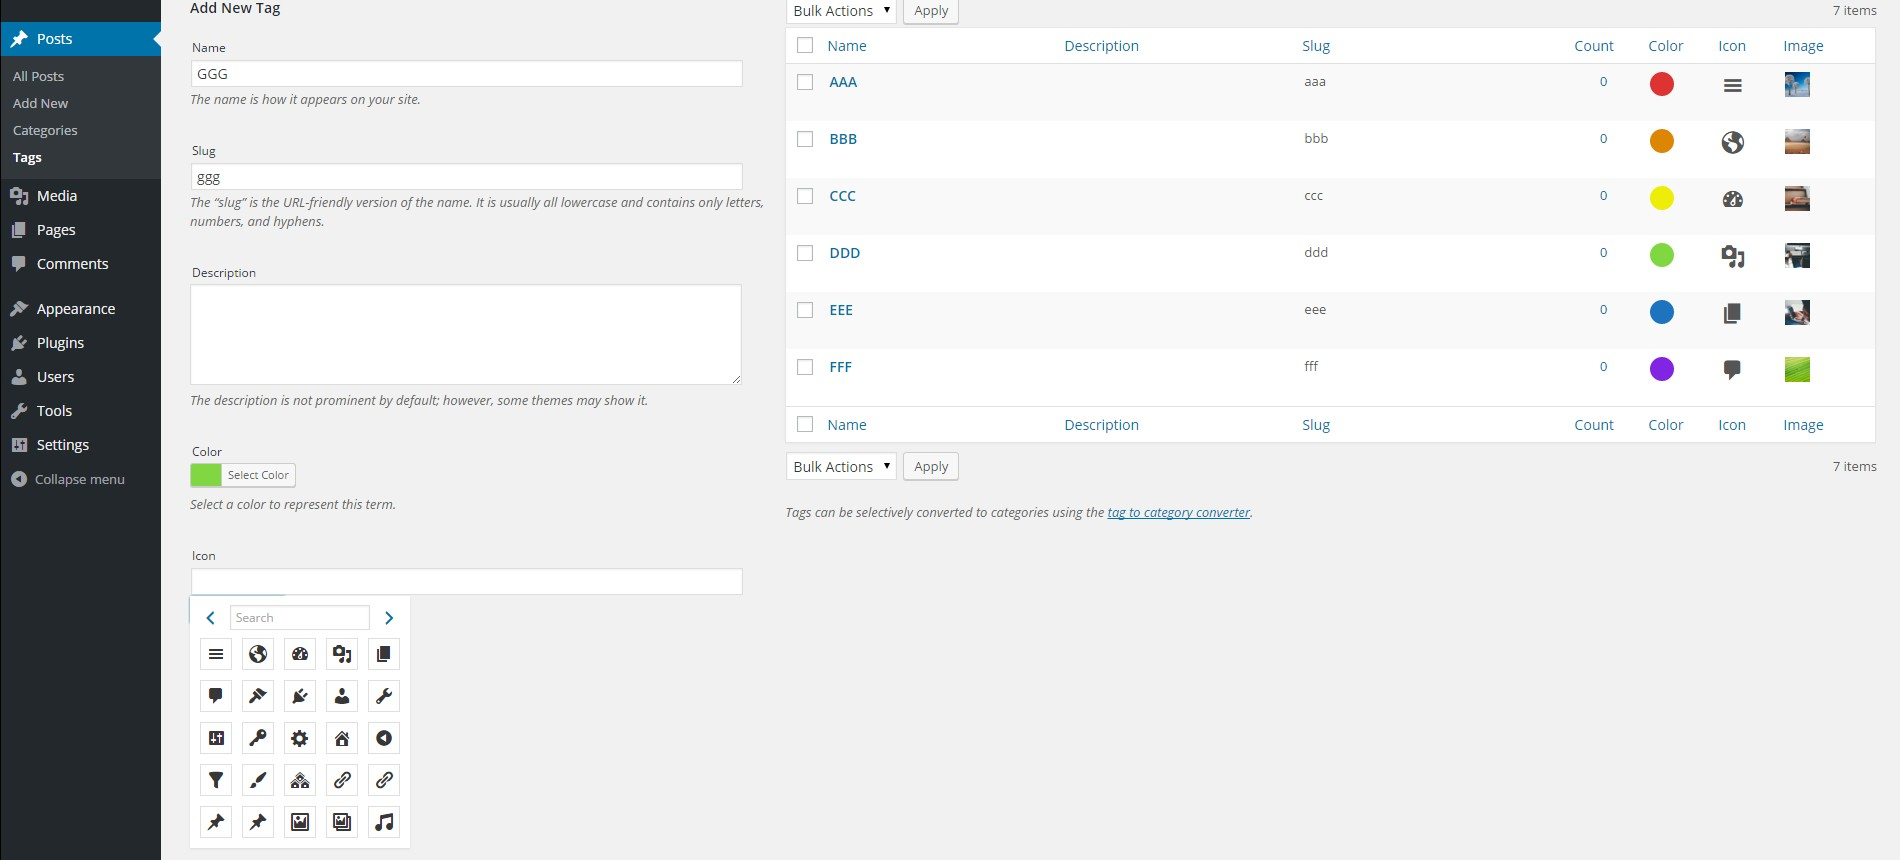
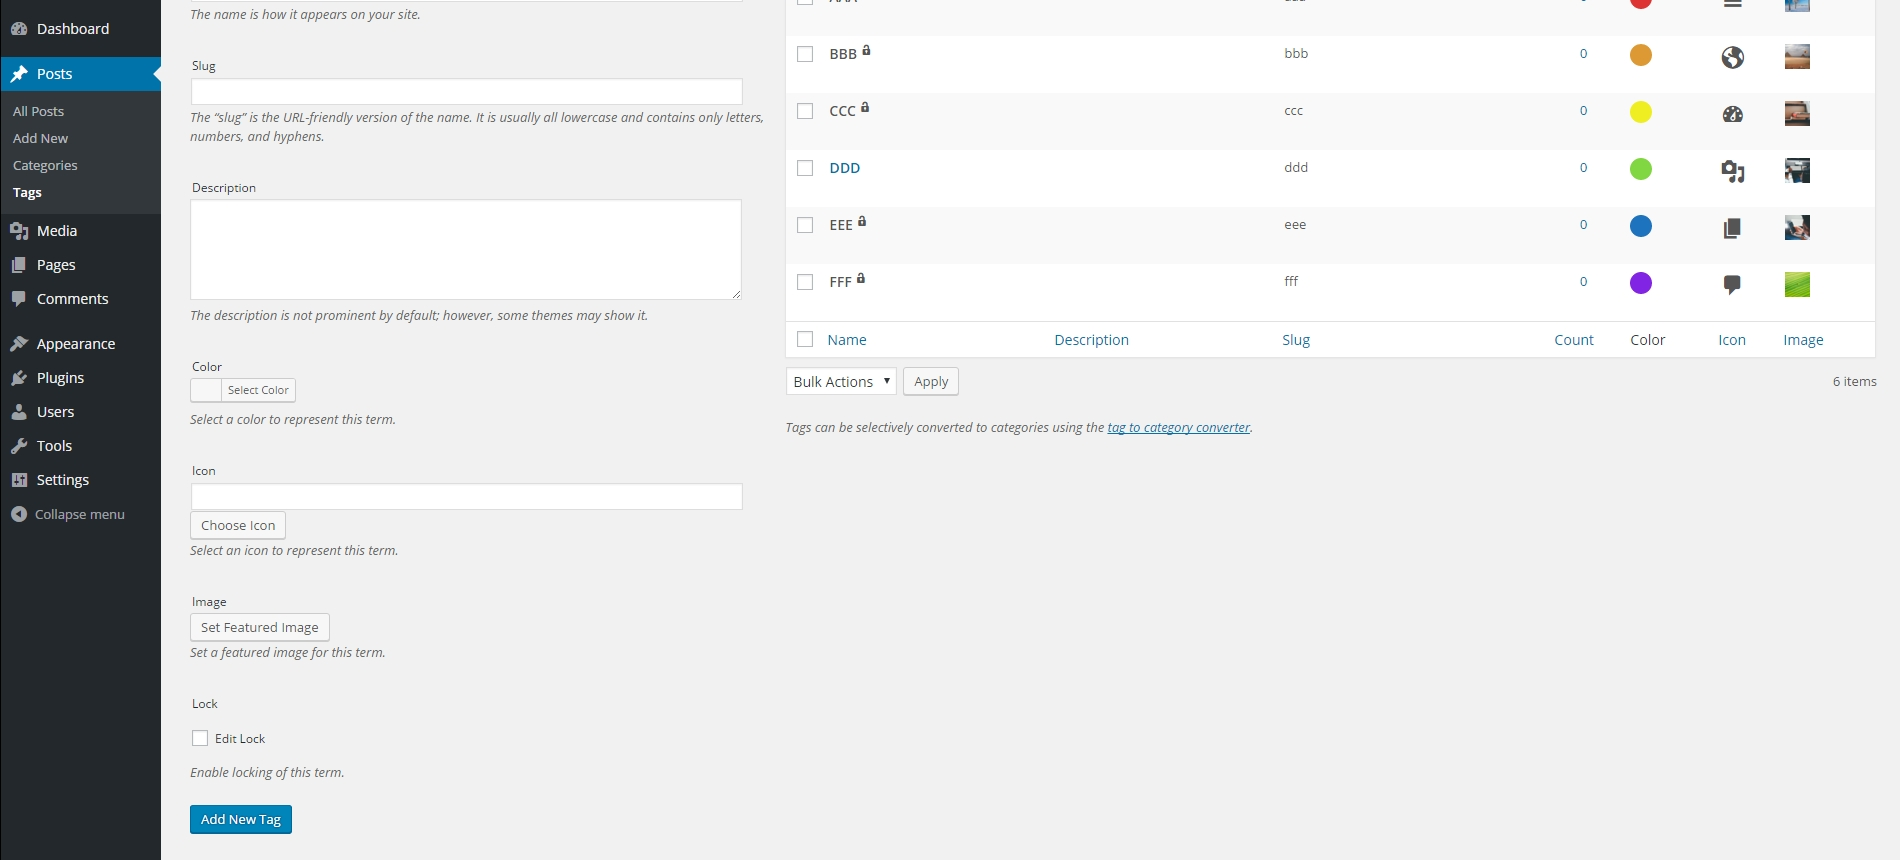
pre-release cleanup

diff --git a/css/admin.css b/css/admin.css
@@ -4,7 +4,7 @@
 	#the-list .dashicons-lock,
 	#the-list .dashicons-unlock{ font-size: 85%; height: auto; width: auto; }
 	.row-title .dashicons-unlock,
-	#the-list .dashicons-unlock { font-size: 75%;}	
+	#the-list .dashicons-unlock { font-size: 75%;}
 	.inline-edit-row span.term-locked-err {
 		background-color: #fbeaea;
 		border: 1px solid #dc3232;
@@ -12,45 +12,4 @@
 		display: inline-block;
 		padding: 2px 10px;
 	}
-	
-
-
-.widefat .column-atf-cb {
-    padding: 6px 0 25px;
-    vertical-align: top;
-    width: 2.2em;
-}
-
-.widefat tbody td.column-atf-cb {
-    padding: 9px 0 22px;
-}
-
-.widefat thead th.column-atf-cb, 
-.widefat tbody td.column-atf-cb, 
-.widefat tfoot th.column-atf-cb {
-    padding: 11px 0 0 3px;
-}
-
-.widefat thead th.column-atf-cb, 
-.widefat tfoot th.column-atf-cb {
-    padding-top: 4px;
-    vertical-align: middle;
-}
-
-.widefat .column-atf-cb input {
-    margin: -1px 0 0 8px;
-    padding: 0;
-    vertical-align: text-top;
-}
-
-
-
-
-
-	
-	
-	
-	
-	
-	
 </style>

diff --git a/js/admin.js b/js/admin.js
@@ -3,6 +3,6 @@
 
 	var locked_tags = $('table.tags .dashicons-lock');
 	locked_tags.parents('a.row-title').contents().unwrap().parent().wrapInner('<span class="row-title"></span>');
-	locked_tags.parents('tr').children('.check-column').find(':checkbox').remove();
+	//locked_tags.parents('tr').children('.check-column').find(':checkbox').remove();
 
 })(jQuery);

diff --git a/inc/class-adv-term-fields-locks.php b/inc/class-adv-term-fields-locks.php
@@ -146,79 +146,9 @@ class Adv_Term_Fields_Locks extends Advanced_Term_Fields
 		$this->check_term_delete();
 		$this->check_edit_screen();
 		$this->check_term_update();
-
-		#$this->remove_bulk_actions( $this->allowed_taxonomies );
+		//$this->manage_term_lock_caps();
 	}
 
-public function remove_bulk_actions( $allowed_taxonomies )
-{
-	if ( ! empty( $allowed_taxonomies ) ) :
-		foreach ( $allowed_taxonomies as $tax_name ) {
-			add_filter( "manage_edit-{$tax_name}_columns", array( $this, 'remove_cb_col' ) );
-			add_filter( "manage_{$tax_name}_custom_column", array( $this, 'redo_cb_column' ), 10, 3 );
-		}
-	endif;
-
-	return $allowed_taxonomies;
-}
-
-public function remove_cb_col( $columns )
-{
-	$new = array();
-
-	unset( $columns['cb'] );
-
-	foreach( $columns as $key => $title ){
-		if( 'name' === $key ) {
-			$new['atf-cb'] = '<input type="checkbox" />';
-		}
-		$new[$key] = $title;
-	}
-
-	return $new;
-}
-
-public function redo_cb_column( $empty = '', $column_name = '', $term_id = 0 )
-{
-	if ( empty( $_REQUEST['taxonomy'] ) || ( 'atf-cb' !== $column_name ) || ! empty( $empty ) ) {
-		return;
-	}
-
-	$taxonomy = $this->get_current_taxonomy();
-	$tag = get_term( $term_id, $taxonomy );
-	$default_term = get_option( 'default_' . $taxonomy );
-	$lock = get_term_meta( $term_id, $this->meta_key, true );
-
-	// if the current user can delete terms
-	if ( current_user_can( get_taxonomy( $taxonomy )->cap->delete_terms ) && $term_id != $default_term ) :
-	
-		// if the current user can delete THIS term
-		$cap = apply_filters( "atf_locks_term_delete_cap", "manage_others_term_locks" );
-		$user_can_delete = $this->_user_can( $cap, $term_id, $taxonomy, $lock );
-		
-		if ( $user_can_delete ) {
-
-			$field = sprintf( '<label class="screen-reader-text" for="cb-select-%1$s">%2$s %3$s</label>',
-				$term_id,
-				__('Select', 'atf-locks'),
-				$tag->name
-			);
-
-			$field .= sprintf( '<input type="checkbox" name="delete_tags[]" value="%1$d" id="cb-select-%1$d" />',
-				$term_id
-			);
-
-			return $field;
-		
-		};
-
-	endif;
-
-return '&nbsp;';
-
-
-
-}
 
 
 	/**
@@ -361,7 +291,7 @@ return '&nbsp;';
 	public function admin_head_styles()
 	{
 		ob_start();
-		include dirname( $this->file ) . "/css/admin.css";
+		include dirname( $this->file ) . '/css/admin.css';
 		$css = ob_get_contents();
 		ob_end_clean();
 
@@ -885,6 +815,41 @@ return '&nbsp;';
 	}
 
 
-
-
-}
+	/**
+	 * Filters term lock capabilities
+	 *
+	 * @see Adv_Term_Fields_Locks::maybe_add_lock_cap()
+	 *
+	 * @access public
+	 *
+	 * @since 0.1.0
+	 *
+	 * @return void
+	 */
+	public function manage_term_lock_caps()
+	{
+		add_filter( 'atf_locks_term_delete_cap', array( $this, 'maybe_add_lock_cap' ) );
+		add_filter( 'atf_locks_term_manage_cap', array( $this, 'maybe_add_lock_cap' ) );
+		add_filter( 'atf_locks_term_update_cap', array( $this, 'maybe_add_lock_cap' ) );
+	}
+	
+	
+	/**
+	 * Sets the capability for managing terms with term locks
+	 *
+	 * @since 0.1.0
+	 *
+	 * @param string $cap The capability being filtered.  Default is "manage_others_term_locks".
+	 *
+	 * @return string $cap The filtered capability.
+	 */
+	public function maybe_add_lock_cap( $cap )
+	{
+		if( is_super_admin() ) {
+			return 'manage_categories';
+		}
+		return $cap;
+	}
+	
+	
+}	

diff --git a/inc/functions.php b/inc/functions.php
@@ -86,22 +86,3 @@ function _atf_locks_version_upgraded_notice( $updated, $db_version_key, $plugin_
 
 	}
 }
-
-/**
- * Sets the capability for deleting terms with term locks
- *
- * @since 0.1.0
- *
- * @param string $cap The capability being filtered.  Default is "manage_others_term_locks".
- *
- * @return string $cap The filtered capability.
- */
-function _atf_manage_term_lock_cap( $cap ){
-	if( is_super_admin() ) {
-		return 'manage_categories';
-	}
-	return $cap;
-}
-add_filter( "atf_locks_term_delete_cap",  '_atf_manage_term_lock_cap' );
-add_filter( "atf_locks_term_manage_cap",  '_atf_manage_term_lock_cap' );
-add_filter( "atf_locks_term_update_cap",  '_atf_manage_term_lock_cap' );

diff --git a/README.md b/README.md
@@ -1,50 +1,58 @@
 # Advanced Term Fields: Locks
 
-Easily assign icons for categories, tags, and custom taxonomy terms. Term meta, iconified!
+Easily lock categories, tags, and custom taxonomy terms.
 
-Advanced Term Fields: Icons extends the Advanced Term Fields framework to give users the ability to easily add and manage icons for any category, tag, or custom taxonomy.
+**Advanced Term Fields: Locks** extends the Advanced Term Fields framework to give admins the ability to easily lock taxonomy terms from being edited or deleted by unauthorized users.
 
-![term admin](assets/screenshot-1.png?raw=true "Dashicons!")
+![term admin](assets/screenshot-1.jpg?raw=true "Term Locks!")
 
-# Installation
+## Installation
 
-### From the WordPress.org plugin repository:
+##### From the WordPress.org plugin repository:
 
 * Download and install using the built in WordPress plugin installer.
 * Activate in the "Plugins" area of your admin by clicking the "Activate" link.
 * No further setup or configuration is necessary.
 
-### From GitHub:
+##### From GitHub:
 
-* Download the [latest stable version](https://github.com/dboutote/Advanced-Term-Fields-Icons/archive/master.zip).
+* Download the [latest stable version](https://github.com/dboutote/Advanced-Term-Fields-Locks/archive/master.zip).
 * Extract the zip folder to your plugins directory.
 * Activate in the "Plugins" area of your admin by clicking the "Activate" link.
 * No further setup or configuration is necessary.
 
-# Usage
+## Usage
 
-This is an extension of the Advanced Term Fields framework.  To use, the Advanced Term Fields plugin must be installed on your project.
-
-You can find the framework here:
+This is an extension of the **Advanced Term Fields** framework.  To use, the Advanced Term Fields plugin must be installed on your project. You can find that plugin here:
 
 * On WP: [Advanced Term Fields](https://wordpress.org/plugins/advanced-term-fields/)
 * On GitHub: [Advanced Term Fields](https://github.com/dboutote/Advanced-Term-Fields)
 
-# FAQ
+Once you've installed and activated the ATF and ATF: Locks plugins, you should see a new form field in your edit tags screen:
 
-### Where can I find additional additional documentation?
+![Form field on Add Tag form](assets/screenshot-2.jpg?raw=true "New form field")
 
-The plugin's official page: http://darrinb.com/advanced-term-fields-icons
+## Frequently Asked Questions
 
-### Does this plugin depend on any others?
+#### Where can I find additional documentation?
 
-Yes, this plugin is an extension of the Advanced Term Fields framework.  You'll need to install that plugin to handle all base functionality.
+The plugin's official page: http://darrinb.com/advanced-term-fields-locks
 
-It can be found here:
+#### Does this plugin depend on any others?
+
+Yes, this plugin is an extension of the **Advanced Term Fields** framework.  You'll need to install that plugin to handle all base functionality. You can find that plugin here:
 
 * On WP: [Advanced Term Fields](https://wordpress.org/plugins/advanced-term-fields/)
 * On GitHub: [Advanced Term Fields](https://github.com/dboutote/Advanced-Term-Fields)
 
-### Does this create/modify/destroy database tables?
+#### Does this create/modify/destroy database tables?
 
 This leverages the term meta capabilities added in WordPress 4.4.  No database modifications needed!
+
+#### Are there other extensions?
+
+Yep!  This is a list of all current extensions:
+
+* [Advanced Term Fields: Colors](https://github.com/dboutote/Advanced-Term-Fields-Colors)
+* [Advanced Term Fields: Icons](https://github.com/dboutote/Advanced-Term-Fields-Icons)
+* [Advanced Term Fields: Featured Images](https://github.com/dboutote/Advanced-Term-Fields-Images)
